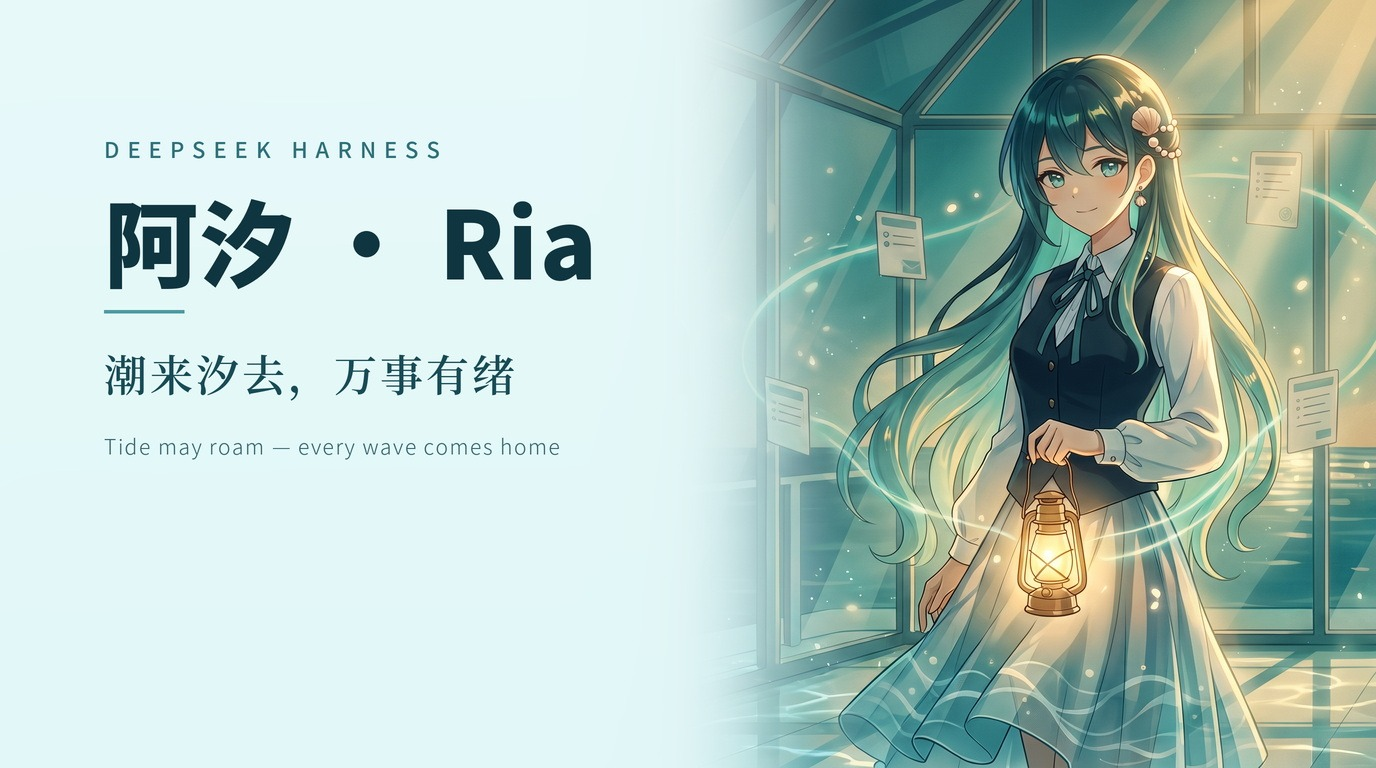
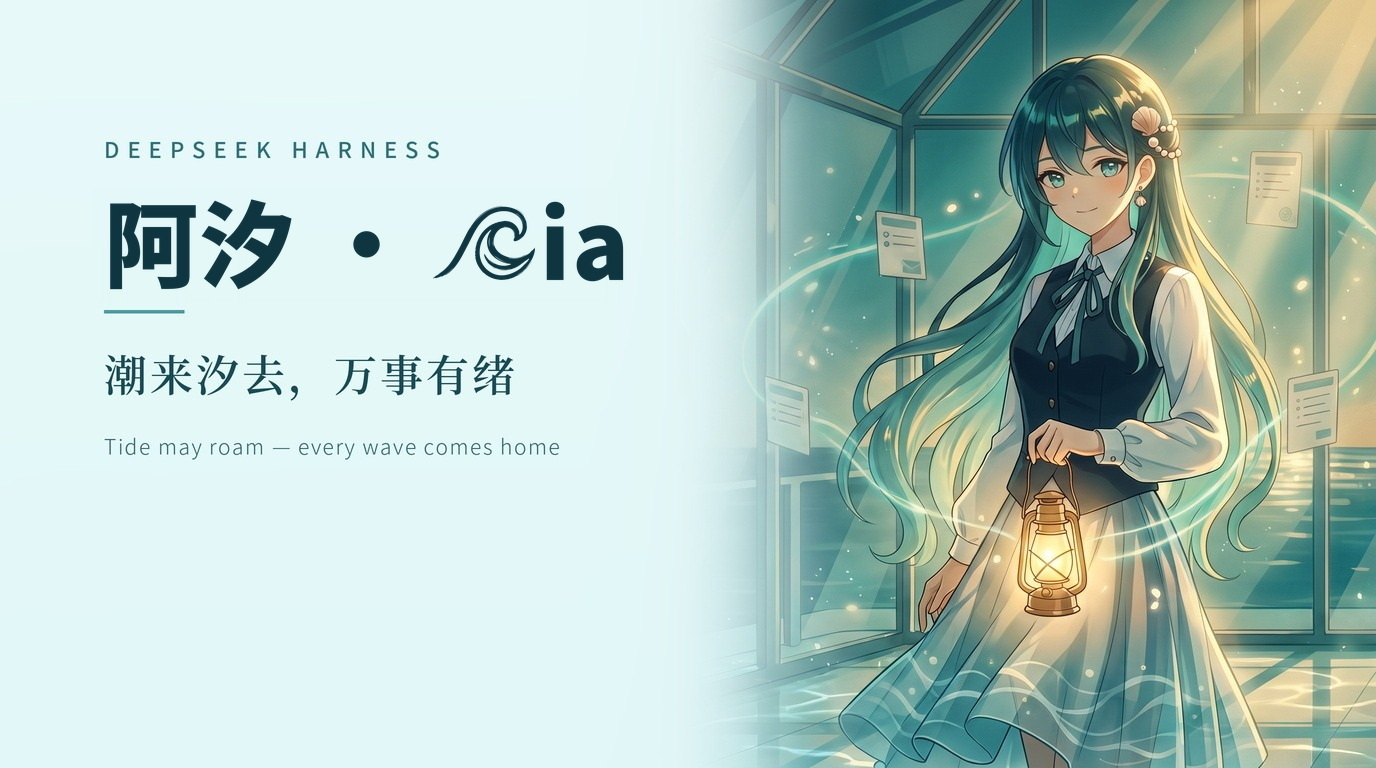
docs: put the v7 wave mark into hero candidate C

Changed region(s): [[0.3125, 0.25, 0.4688, 0.375]]

diff --git a/docs/hero-candidates/NOTES.md b/docs/hero-candidates/NOTES.md
@@ -1,6 +1,8 @@
 # Hero 候选 A / B / C
 
-三版都是 1376×768，左文右图，浅青主调；人物延续现有 `docs/hero.jpg`：青绿长发、贝壳发饰、珍珠耳饰、深蓝马甲、白衬衫、青绿领结、浅蓝百褶裙、黄铜提灯。三版共用同一套排版，只有画面气质和细节密度不同。
+三版都是 1376×768，左文右图，浅青主调；人物延续现有 `docs/hero.jpg`：青绿长发、贝壳发饰、珍珠耳饰、深蓝马甲、白衬衫、青绿领结、浅蓝百褶裙、黄铜提灯。
+
+A/B 保留原字标「阿汐 · Ria」；**C 已选定**，并把 R 换成 v7 浪形 icon，`ia` 默认用当前 Noto Sans Black。三版共用同一套面板、文字颜色和版式，只有画面气质、细节密度和 C 的 R 处理不同。
 
 ## 共同做法
 
@@ -9,17 +11,18 @@
 - 文字：全部用 PIL 叠加，不让生成模型写中文或英文，避免错字和字形漂移。
 - 字号/颜色（最终像素）：
   - `DEEPSEEK HARNESS` — Noto Sans CJK SC Medium 22px，字距 8px，`#2D707A`
-  - `阿汐 · Ria` — Noto Sans CJK SC Black 94px，字距 2px，`#0F3540`
+  - A/B 标题 `阿汐 · Ria` — Noto Sans CJK SC Black 94px，字距 2px，`#0F3540`
+  - C 标题 `阿汐 · [icon]ia` — 中文和间隔点同上；icon 高 74px，与标题同色；`ia` 为 Noto Sans CJK SC Black 94px，字距 2px
   - `潮来汐去，万事有绪` — Noto Serif CJK SC SemiBold 43px，字距 3px，`#174B56`
   - `Tide may roam — every wave comes home` — Noto Sans CJK SC Light 21px，字距 1.5px，`#34636C`
-  - 分隔线 `#4C9AA3`；文字位置：kicker (104,132)，标题 (104,170)，分隔线 (104,310)，中文 (104,342)，英文 (104,430)。
+  - 分隔线 `#4C9AA3`；文字位置：kicker (104,132)，标题基线 y=280，分隔线 (104,310)，中文 (104,342)，英文 (104,430)。
 
-## A · 细节丰富版（推荐）
+## A · 细节丰富版
 
 - seed 20261112
 - 提示词要点：更密的发丝高光、衣褶和裙摆层次；结构完整的黄铜灯笼（玻璃、提梁、暖光、流萤）；潮汐粒子、漂浮票据和玻璃中庭的纵深。
 - 观感：人物、灯笼和场景层次最完整，右侧信息量最大，最接近“阿汐在潮汐中派发任务”的叙事。
-- 适合：README 首图、落地页主视觉。
+- 适合：想要更多细节、更强叙事感的首图。
 
 ## B · 清透留白版
 
@@ -28,15 +31,22 @@
 - 观感：最轻、最干净，人物和灯笼都退到更柔的对比里；左文右图的呼吸感最好。
 - 适合：浅色文档站、需要安静阅读氛围的页面。
 
-## C · 光影氛围版
+## C · 光影氛围版（已选）
 
 - seed 20261114
 - 提示词要点：午后青金色调、灯笼暖光、体积光、深青阴影、反光地面和更丰富的空气感。
 - 观感：对比最强，灯笼是视觉中心，人物从暗部里被暖光照亮；左侧面板与右侧暗部的反差也最大。
 - 适合：深色主题、入口页、需要戏剧性的场景。
 
+### C 的 R 替换
+
+- icon 来源：`docs/icon-concepts/v7/wave-faithful.svg`（侧栏同一个 v7 faithful 浪形）。4× 渲染，按 alpha 通道重新着色为 `#0F3540`，高度 74px（略高于 R 的 70px cap height），底边对齐标题基线；相对原 R 位置左移 6px，与 `ia` 间距 5px。
+- `C.jpg`：`ia` 用当前 Noto Sans CJK SC Black 94px，字距 2px；标题总宽约 525px，结束于 x≈629。与中文同族，最稳。
+- `C-icon-serif-italic.jpg`：`ia` 用 Noto Serif CJK SC Black 94px，再向右斜切 10%；衬线的粗细对比和斜势更接近浪形 icon，更像一个独立 mark。
+- 两版并排：`C-icon-options.png`。选定后把对应文件替换为 `C.jpg` 即可，其余版式不需要动。
+
 ## 取舍
 
-推荐 **A**：细节、角色完整度和左文右图的平衡最好。想要更克制、更轻，选 **B**；想要更强的光影和氛围，选 **C**。三版都没有覆盖 `docs/hero.jpg`，确定版本后再单独替换。
+C 已选定：光影和灯笼最突出，R 换成 icon 后左文右图的品牌感也最强。A/B 保留作对照；如果最后改用 A/B，需要同样做一次 R 替换。三版都没有覆盖 `docs/hero.jpg`，确定最终版本后再单独替换。
 
-> 说明：漂浮票据里只有抽象线条，没有可读文字；三版生成时都要求 no text / no letters，排版文字是后期叠加的。
+> 说明：漂浮票据里只有抽象线条，没有可读文字；三版生成时都要求 no text / no letters，排版文字和 C 的 icon 都是后期叠加的。
